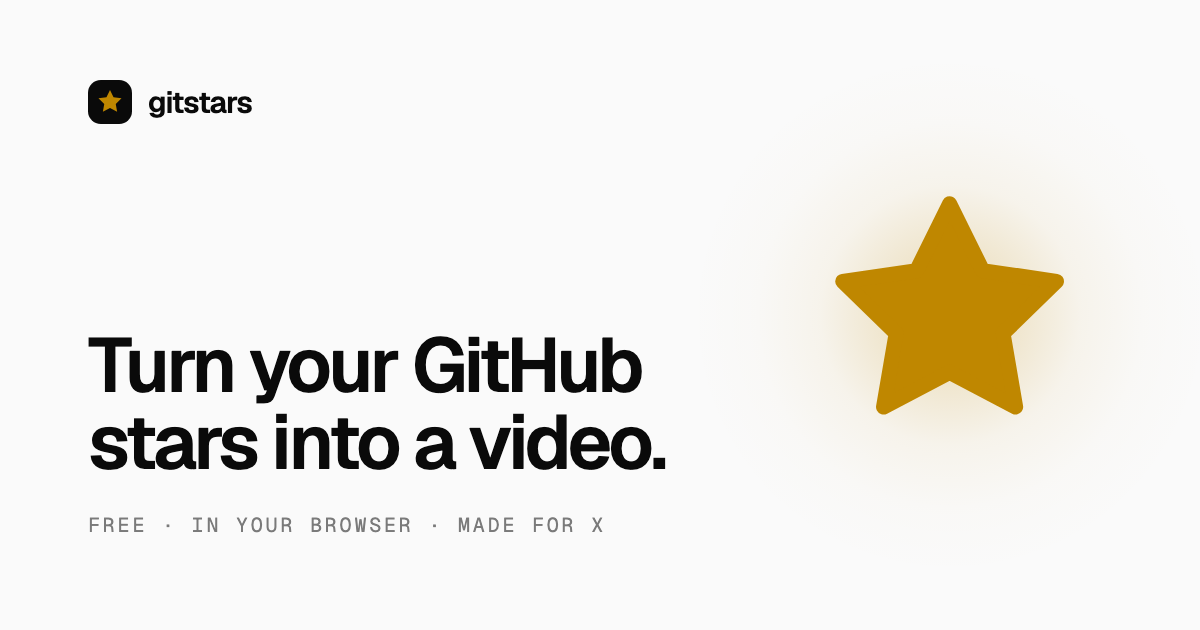
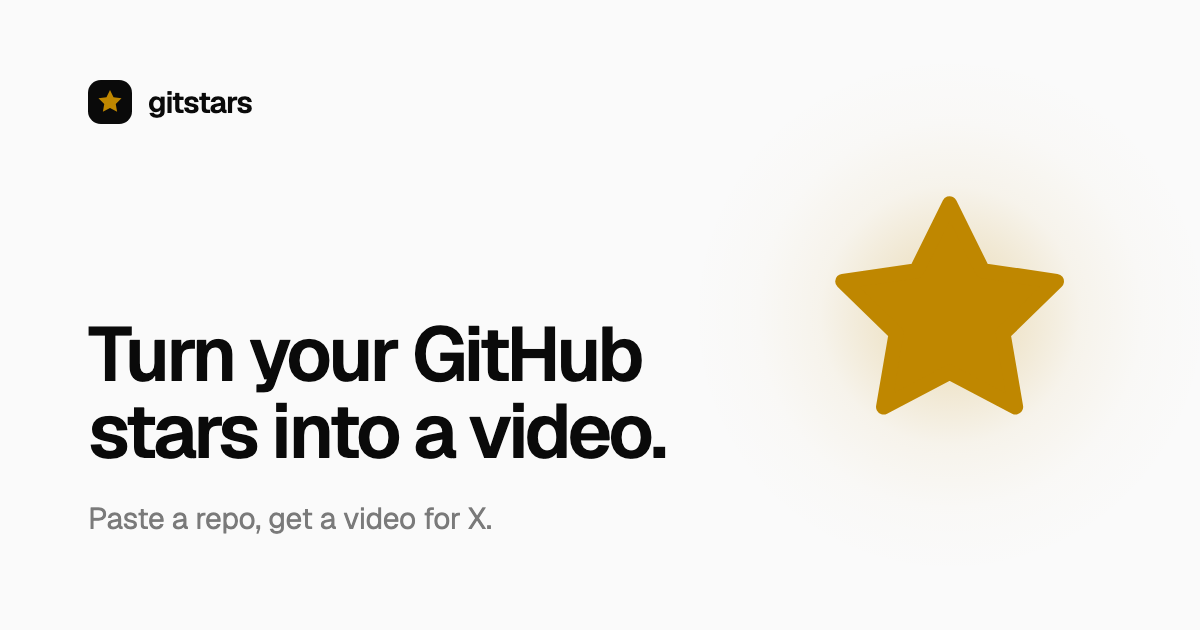
Simplify OG image tagline

Changed region(s): [[0.0617, 0.5127, 0.555, 0.754], [0.0617, 0.7841, 0.5242, 0.8444]]

diff --git a/src/video/OgImage.tsx b/src/video/OgImage.tsx
@@ -1,7 +1,7 @@
 import { AbsoluteFill } from 'remotion'
 import { useSvgId } from './components/svgId'
 import { STAR } from './components/StarMark'
-import { MONO, SANS, useVideoFonts } from './fonts'
+import { SANS, useVideoFonts } from './fonts'
 import { THEMES } from './theme'
 
 export const OG_SIZE = { width: 1200, height: 630 }
@@ -36,15 +36,13 @@ export function OgImage() {
         </div>
         <div
           style={{
-            marginTop: 30,
-            fontFamily: MONO,
-            fontSize: 20,
-            letterSpacing: '0.14em',
-            textTransform: 'uppercase',
+            marginTop: 28,
+            fontSize: 30,
+            letterSpacing: '-0.01em',
             color: theme.muted,
           }}
         >
-          Free · In your browser · Made for X
+          Paste a repo, get a video for X.
         </div>
       </div>
 
